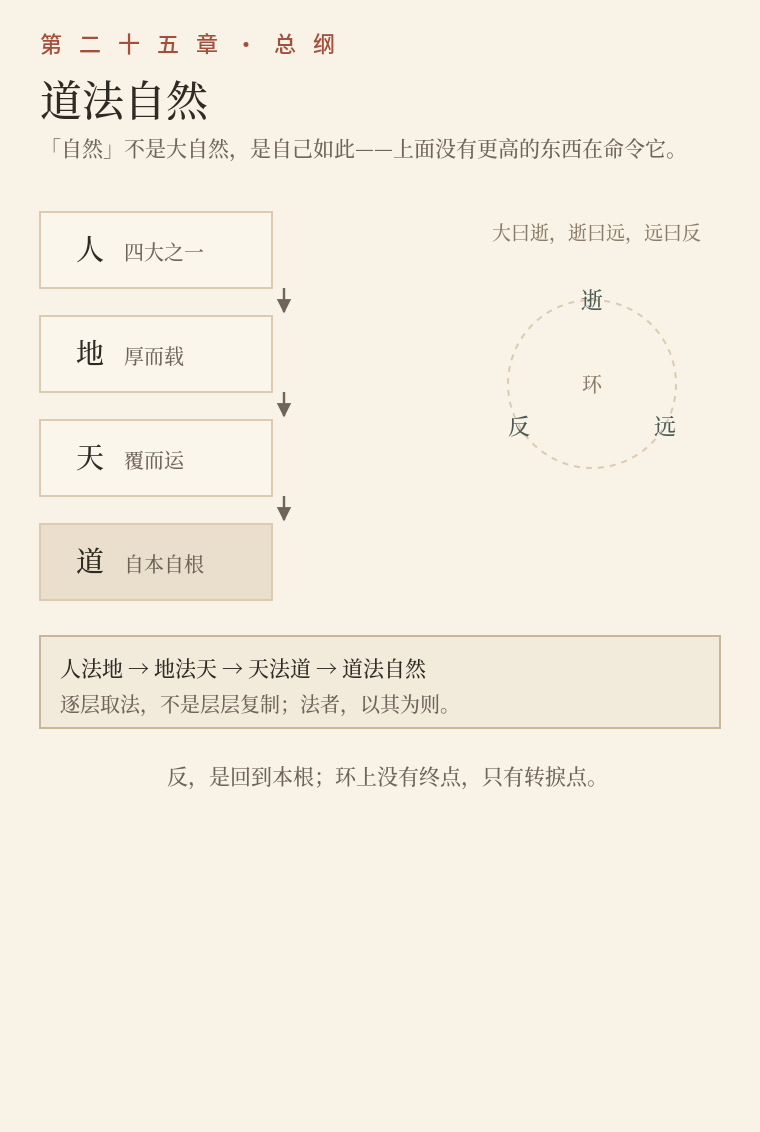
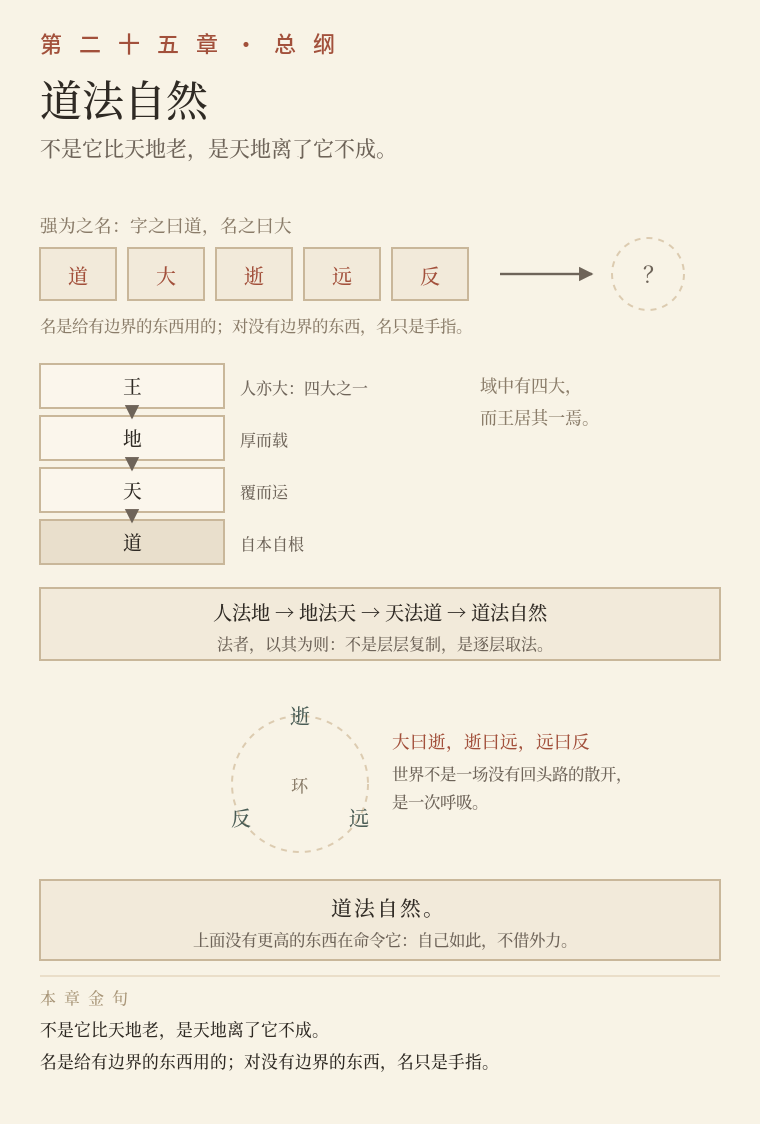
2.5.3 义理图第六批：二十五章回炉、二十六、二十七章新作

diff --git a/tools/make_yili_svg.py b/tools/make_yili_svg.py
@@ -342,42 +342,62 @@ def ch22_qu_ze_quan():
     return "\n".join(s)
 
 
-# ============ 第二十五章 · 四大四法 ============
+# ============ 第二十五章 · 有物混成 ============
 def ch25_dao_fa():
-    W, H = 380, 566
-    body, y = head(W, H, "四大与四法：人法地，地法天，天法道，道法自然", "第 二 十 五 章 · 总 纲", "道法自然",
-                   "「自然」不是大自然，是自己如此——上面没有更高的东西在命令它。", H)
+    W, H = 380, 562
+    body, y = head(W, H, "名只是手指，四大只到自然为止", "第 二 十 五 章 · 总 纲", "道法自然",
+                   "不是它比天地老，是天地离了它不成。", H)
     s = [body]
-    cx = 150
-    levels = [("人", "四大之一"), ("地", "厚而载"), ("天", "覆而运"), ("道", "自本自根")]
-    yb = y + 6
-    for i, (name, note) in enumerate(levels):
-        yy = yb + i * 52
-        s.append(box(20, yy, 116, 38, fill="#FBF6EC" if i < 3 else "#E9DFCC"))
-        s.append(txt(38, yy + 24, name, 14, INK))
-        s.append(txt(62, yy + 24, note, 10, "#6E6459"))
-        if i < 3:
-            s.append(arrow(cx - 8, yy + 38, cx - 8, yy + 50, "#6E6459", 1.2))
-    # 法
-    yf = yb + 4 * 52 + 4
-    s.append(box(20, yf, 340, 46, fill="#F2EADA", stroke="#C9B79A"))
-    s.append(txt(30, yf + 20, "人法地 → 地法天 → 天法道 → 道法自然", 10.5, INK))
-    s.append(txt(30, yf + 38, "逐层取法，不是层层复制；法者，以其为则。", 10, "#6E6459"))
-    # 右：逝远反
-    xr = 252
-    s.append(txt(xr - 6, yb + 14, "大曰逝，逝曰远，远曰反", 9.5, "#8A7C69"))
-    ccx, ccy, r = xr + 44, yb + 86, 42
-    s.append(f'<circle cx="{ccx}" cy="{ccy}" r="{r}" fill="none" stroke="{LINE}" stroke-width="1" stroke-dasharray="3 3"/>')
+    # 名与指
+    y0 = y + 4
+    s.append(txt(20, y0 + 12, "强为之名：字之曰道，名之曰大", 8.8, "#8A7C69"))
+    names = ["道", "大", "逝", "远", "反"]
+    for i, n in enumerate(names):
+        s.append(box(20 + i * 44, y0 + 20, 38, 26, fill="#F2EADA", stroke="#C9B79A"))
+        s.append(txt(39 + i * 44, y0 + 38, n, 10, SEAL, "middle"))
+    s.append(arrow(250, y0 + 33, 296, y0 + 33, color="#6E6459", head="arr"))
+    s.append(f'<circle cx="324" cy="{y0+33}" r="18" fill="none" stroke="{LINE}" stroke-width="1" stroke-dasharray="3 3"/>')
+    s.append(txt(324, y0 + 37, "？", 11, "#6E6459", "middle"))
+    s.append(txt(20, y0 + 62, "名是给有边界的东西用的；对没有边界的东西，名只是手指。", 8.2, "#8A7C69"))
+    # 四大：人地天道
+    y1 = y0 + 78
+    lv = [("王", "人亦大：四大之一"), ("地", "厚而载"), ("天", "覆而运"), ("道", "自本自根")]
+    for i, (a, b) in enumerate(lv):
+        yy = y1 + i * 26
+        s.append(box(20, yy, 92, 22, fill="#FBF6EC" if i < 3 else "#E9DFCC", stroke="#C9B79A"))
+        s.append(txt(66, yy + 15, a, 9.4, INK, "middle"))
+        s.append(txt(120, yy + 15, b, 8.0, "#6E6459"))
+        if i:
+            s.append(arrow(66, yy - 4, 66, yy + 1, color="#C9B79A", head="arr"))
+    s.append(txt(240, y1 + 14, "域中有四大，", 8.6, "#8A7C69"))
+    s.append(txt(240, y1 + 30, "而王居其一焉。", 8.6, "#8A7C69"))
+    # 四法
+    y2 = y1 + 4 * 26 + 8
+    s.append(box(20, y2, 340, 36, fill="#F2EADA", stroke="#C9B79A"))
+    s.append(txt(190, y2 + 16, "人法地 → 地法天 → 天法道 → 道法自然", 9.6, INK, "middle"))
+    s.append(txt(190, y2 + 31, "法者，以其为则：不是层层复制，是逐层取法。", 8.0, "#6E6459", "middle"))
+    # 逝远反：一次呼吸
+    y3 = y2 + 54
+    cx, cy, r = 150, y3 + 44, 34
+    s.append(f'<circle cx="{cx}" cy="{cy}" r="{r}" fill="none" stroke="{LINE}" stroke-width="1" stroke-dasharray="3 3"/>')
+    import math
     for k, lab in enumerate(["逝", "远", "反"]):
         ang = -90 + k * 120
-        import math
-        px = ccx + r * math.cos(math.radians(ang))
-        py = ccy + r * math.sin(math.radians(ang))
-        s.append(txt(px, py + 4, lab, 11, GREEN, "middle"))
-    s.append(txt(ccx, ccy + 4, "环", 10, "#8A7C69", "middle"))
-    s.append(txt(190, yf + 74, "反，是回到本根；环上没有终点，只有转捩点。", 10.5, "#6E6459", "middle"))
+        px = cx + r * math.cos(math.radians(ang))
+        py = cy + r * math.sin(math.radians(ang))
+        s.append(txt(px, py + 4, lab, 10, GREEN, "middle"))
+    s.append(txt(cx, cy + 4, "环", 8.6, "#8A7C69", "middle"))
+    s.append(txt(196, y3 + 26, "大曰逝，逝曰远，远曰反", 8.8, SEAL))
+    s.append(txt(196, y3 + 42, "世界不是一场没有回头路的散开，", 8.2, "#6E6459"))
+    s.append(txt(196, y3 + 56, "是一次呼吸。", 8.2, "#6E6459"))
+    yc = y3 + 92
+    s.append(box(20, yc, 340, 40, fill="#F2EADA", stroke="#C9B79A"))
+    s.append(txt(190, yc + 18, "道法自然。", 10.4, INK, "middle", spacing="1"))
+    s.append(txt(190, yc + 33, "上面没有更高的东西在命令它：自己如此，不借外力。", 8.2, "#6E6459", "middle"))
+    s.append(gold(yc + 48, "ch25"))
     s.append('</svg>')
     return "\n".join(s)
+
 
 
 # ============ 第三十八章 · 五级滑落 ============
@@ -1497,6 +1517,9 @@ GOLD = {
     "ch21": ["孔德之容，惟道是从：德不是修出来的，是流出来的。", "名不去，是路标一直在；路标在，不等于路标就是那个地方。"],
     "ch23": ["自然不是「不管」，是「不需要管」——差别全在有没有人在使劲。", "信不足，不是话说得不够多，是话后面没有人。"],
     "ch24": ["借来的高度站不住，省下的步子走不远。", "不处不是割掉，是不长——约束是按住它，不处是根本不在那儿站。"],
+    "ch25": ["不是它比天地老，是天地离了它不成。", "名是给有边界的东西用的；对没有边界的东西，名只是手指。"],
+    "ch26": ["法地，不是学地的形状，是学地的分量。", "不是被外面夺了权，是你自己先把位置让出去了。"],
+    "ch27": ["玉的病在里头，言的病在把柄上。", "不是他心肠软，是他看见的分类不成立。"],
 }
 
 
@@ -1609,6 +1632,106 @@ def ch24_qi_zhe_bu_li():
     return "\n".join(s)
 
 
+
+# ============ 第二十六章 · 重为轻根 ============
+def ch26_zhong_wei_qing_gen():
+    W, H = 380, 556
+    body, y = head(W, H, "法地不是学地的形状，是学地的分量", "第 二 十 六 章 · 轻 重", "重为轻根",
+                   "轻车跑得快，正因为它不载重——代价是空。", H)
+    s = [body]
+    # 重为轻根
+    y0 = y + 8
+    s.append(box(60, y0 + 34, 96, 26, fill="#D9C7A6", stroke="#B9A98F"))
+    s.append(txt(108, y0 + 51, "重", 9.6, INK, "middle"))
+    s.append(f'<line x1="108" y1="{y0+34}" x2="108" y2="{y0+14}" stroke="{LINE}" stroke-width="1"/>')
+    s.append(f'<circle cx="108" cy="{y0+10}" r="6" fill="#FBF6EC" stroke="{LINE}" stroke-width="1"/>')
+    s.append(txt(108, y0 + 9, "轻", 7, "#6E6459", "middle"))
+    s.append(txt(176, y0 + 24, "轻要靠根立着", 8.4, "#6E6459"))
+    s.append(txt(176, y0 + 40, "根一抽，轻就倒", 8.2, "#8A7C69"))
+    # 静为躁君
+    y1 = y0 + 82
+    s.append(box(20, y1, 52, 26, fill="#F2EADA", stroke="#C9B79A"))
+    s.append(txt(46, y1 + 17, "静", 10.4, INK, "middle", spacing="1"))
+    s.append(arrow(76, y1 + 13, 108, y1 + 13, color="#6E6459", head="arr"))
+    s.append(txt(88, y1 - 6, "发令", 7.6, "#8A7C69", "middle"))
+    zz = [(112, y1 + 4), (140, y1 + 21), (168, y1 + 4), (196, y1 + 21), (224, y1 + 4), (252, y1 + 21)]
+    for i in range(len(zz) - 1):
+        s.append(f'<line x1="{zz[i][0]}" y1="{zz[i][1]}" x2="{zz[i+1][0]}" y2="{zz[i+1][1]}" stroke="{SEAL}" stroke-width="1.1"/>')
+    s.append(txt(296, y1 + 17, "躁", 10.4, SEAL, "middle", spacing="1"))
+    s.append(txt(20, y1 + 44, "君不在，令就乱：静是动的发令处，不是不动。", 8.2, "#8A7C69"))
+    # 终日行不离辎重
+    y2 = y1 + 66
+    s.append(txt(20, y2 + 4, "终日行，不离辎重：走到哪，根就带到哪。", 8.4, "#6E6459"))
+    s.append(box(160, y2 + 12, 64, 24, fill="#FBF6EC", stroke="#C9B79A"))
+    s.append(txt(192, y2 + 28, "身", 9, INK, "middle"))
+    s.append(box(160, y2 + 40, 64, 24, fill="#E9DFCC", stroke="#C9B79A"))
+    s.append(txt(192, y2 + 56, "辎重", 8.6, INK, "middle"))
+    s.append(f'<line x1="192" y1="{y2+36}" x2="192" y2="{y2+40}" stroke="{LINE}" stroke-width="1"/>')
+    s.append(f'<line x1="30" y1="{y2+70}" x2="340" y2="{y2+70}" stroke="{LINE2}" stroke-width="1" stroke-dasharray="4 3"/>')
+    # 荣观 / 燕处
+    y3 = y2 + 88
+    s.append(box(20, y3, 162, 40, fill="#F6EFE0", stroke="#C9B79A"))
+    s.append(txt(101, y3 + 18, "荣观：外面好看", 8.8, SEAL, "middle"))
+    s.append(txt(101, y3 + 32, "看一眼，不跟着走", 7.8, "#6E6459", "middle"))
+    s.append(box(198, y3, 162, 40, fill="#F6EFE0", stroke="#C9B79A"))
+    s.append(txt(279, y3 + 18, "燕处超然：在场而不随之", 8.4, GREEN, "middle"))
+    s.append(txt(279, y3 + 32, "坐在这里，不搬进里头", 7.8, "#6E6459", "middle"))
+    yc = y3 + 58
+    s.append(box(20, yc, 340, 42, fill="#F2EADA", stroke="#C9B79A"))
+    s.append(txt(190, yc + 19, "轻则失根，躁则失君。", 10.4, INK, "middle", spacing="1"))
+    s.append(txt(190, yc + 34, "不是被外面夺了权，是你自己先把位置让出去了。", 8.2, "#6E6459", "middle"))
+    s.append(gold(yc + 50, "ch26"))
+    s.append('</svg>')
+    return "\n".join(s)
+
+
+
+# ============ 第二十七章 · 善行无辙迹 ============
+def ch27_shan_xing_wu_zhe_ji():
+    W, H = 380, 548
+    body, y = head(W, H, "善不是做得多，是做完不留把柄", "第 二 十 七 章 · 善 用", "善行无辙迹",
+                   "五种善，五次「不用工具」；不用，事也成了。", H)
+    s = [body]
+    rows = [("善行", "无辙迹", "路面上最深那道沟，是载重的车压出来的"),
+            ("善言", "无瑕谪", "不是说得漂亮，是说得干净"),
+            ("善数", "不用筹策", "数得对，不必把筹码摊一桌"),
+            ("善闭", "无关楗", "门不闩，也开不了"),
+            ("善结", "无绳约", "绳不用，也解不开")]
+    y0 = y + 4
+    for i, (a, b, note) in enumerate(rows):
+        yy = y0 + i * 30
+        s.append(txt(20, yy + 16, a, 9.6, SEAL))
+        s.append(arrow(64, yy + 11, 86, yy + 11, color="#C9B79A", head="arr"))
+        s.append(txt(92, yy + 16, b, 9.0, INK))
+        s.append(txt(172, yy + 16, note, 7.8, "#6E6459"))
+    y1 = y0 + 5 * 30 + 6
+    s.append(txt(20, y1, "五个「不」都是同一件事：动作做尽，痕迹不落。", 8.4, "#8A7C69"))
+    # 无弃人 / 无弃物
+    y2 = y1 + 16
+    s.append(box(20, y2, 162, 42, fill="#F6EFE0", stroke="#C9B79A"))
+    s.append(txt(101, y2 + 18, "常善救人：无弃人", 8.6, GREEN, "middle"))
+    s.append(txt(101, y2 + 33, "不是心肠软，是分类不成立", 7.6, "#6E6459", "middle"))
+    s.append(box(198, y2, 162, 42, fill="#F6EFE0", stroke="#C9B79A"))
+    s.append(txt(279, y2 + 18, "常善救物：无弃物", 8.6, GREEN, "middle"))
+    s.append(txt(279, y2 + 33, "不是用得省，是没有废物这一格", 7.6, "#6E6459", "middle"))
+    s.append(txt(20, y2 + 58, "是谓袭明：这份明不是自己点的，是从上头承来的。", 8.2, "#8A7C69"))
+    # 师与资
+    y3 = y2 + 74
+    s.append(box(20, y3, 162, 42, fill="#F2EADA", stroke="#C9B79A"))
+    s.append(txt(101, y3 + 18, "善人：师", 9, INK, "middle"))
+    s.append(txt(101, y3 + 33, "给一个方向", 7.8, "#6E6459", "middle"))
+    s.append(box(198, y3, 162, 42, fill="#F2EADA", stroke="#C9B79A"))
+    s.append(txt(279, y3 + 18, "不善人：资", 9, INK, "middle"))
+    s.append(txt(279, y3 + 33, "给一份本钱", 7.8, "#6E6459", "middle"))
+    yc = y3 + 58
+    s.append(box(20, yc, 340, 42, fill="#F2EADA", stroke="#C9B79A"))
+    s.append(txt(190, yc + 19, "不贵其师，不爱其资，虽智大迷。", 9.6, INK, "middle"))
+    s.append(txt(190, yc + 34, "迷不在无知，在太会分。", 8.4, SEAL, "middle"))
+    s.append(gold(yc + 50, "ch27"))
+    s.append('</svg>')
+    return "\n".join(s)
+
+
 FIGS = {
     "ch01-wu-you": ("第一章", "无有同出", ch01_wu_you),
     "ch01-zhi-yue": ("第一章", "指月三境", ch01_zhi_yue),
@@ -1618,6 +1741,8 @@ FIGS = {
     "ch24-qi-zhe-bu-li": ("第二十四章", "企者不立", ch24_qi_zhe_bu_li),
     "ch23-xi-yan-zi-ran": ("第二十三章", "希言自然", ch23_xi_yan_zi_ran),
     "ch22-qu-ze-quan": ("第二十二章", "曲则全", ch22_qu_ze_quan),
+    "ch26-zhong-wei-qing-gen": ("第二十六章", "重为轻根", ch26_zhong_wei_qing_gen),
+    "ch27-shan-xing-wu-zhe-ji": ("第二十七章", "善行无辙迹", ch27_shan_xing_wu_zhe_ji),
     "ch25-dao-fa": ("第二十五章", "道法自然", ch25_dao_fa),
     "ch38-wu-ji": ("第三十八章", "五级滑落", ch38_wu_ji),
     "ch40-fan-zhe": ("第四十章", "反向的机器", ch40_fan_zhe),

diff --git a/book/义理图-体例.md b/book/义理图-体例.md
@@ -70,6 +70,9 @@
 | 二十 | ch20-wei-zhi-yu-e | 两把尺子 | 「众人／我」两列四行对照；注「不是清高」，收「贵食母」 |
 | 二十一 | ch21-kong-de | 由粗到细 | 象→物→精→信四级，包在「惚兮恍兮」虚线框内，收「以阅众甫」 |
 | 十一 | ch11-li-yong | 利与用 | 三容器并置，各标「有·立界／无·让位」，收「有之以为利，无之以为用」 |
+| 二十五 | ch25-dao-fa | 道法自然 | 名（道大逝远反）→ 虚圈「？」；四大竖列；四法横带；逝远反圆环，收「上面没有更高的东西」 |
+| 二十六 | ch26-zhong-wei-qing-gen | 重为轻根 | 重块托轻物；静→躁折线；身与辎重随行；荣观／燕处两格 |
+| 二十七 | ch27-shan-xing-wu-zhe-ji | 善行无辙迹 | 五「善」各对一「不用」；无弃人／无弃物两格；师／资两格，收「迷在太会分」 |
 | 二十三 | ch23-xi-yan-zi-ran | 希言自然 | 风雨一框证「不久」，下三同（道／德／失），末以空「言」框点「话后面没有人」 |
 | 二十四 | ch24-qi-zhe-bu-li | 企者不立 | 左企（脚尖点地、高度虚尺）／右跨（步幅虚线）；四句「自…→不…」两列；末余食赘行两格 |
 | 二十二 | ch22-qu-ze-quan | 曲则全 | 六截面分形、量两截，下接抱一、四不四果，收「诚全而归之」 |
